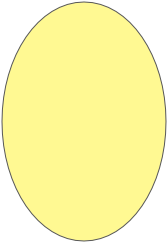
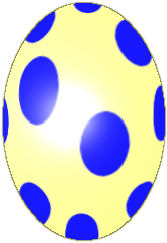
Add ovum and sperm svg images; tweak egg

diff --git a/src/code/templates/egg-game.js b/src/code/templates/egg-game.js
@@ -50,11 +50,17 @@ export default class EggGame extends Component {
       var childView;
       if (drakes[2]) {
         let child = new BioLogica.Organism(BioLogica.Species.Drake, drakes[2].alleleString, drakes[2].sex);
-        childView = <OrganismView org={ child } width={150} />;
+        childView = <OrganismView org={ child } width={170} />;
       } else if (transientStates.indexOf(transientStateTypes.HATCHING) > -1) {
         childView = <img className="egg-image" src="resources/images/egg_yellow.png" />;
       } else {
         childView = <ButtonView className="fertilize-button" label="Fertilize ❤" onClick={ handleFertilize } />;
+      }
+
+      var ovumView, spermView;
+      if ((transientStates.length === 0 && !drakes[2]) ||  transientStates.indexOf(transientStateTypes.FERTILIZING) > -1) {
+        ovumView  = <img className="ovum" src="resources/images/egg.svg" />;
+        spermView = <img className="sperm" src="resources/images/sperm.svg" />;
       }
 
       var resetButtonView = null;
@@ -74,10 +80,12 @@ export default class EggGame extends Component {
             { childView }
           </div>
           <div className={ gametesClass }>
-            <div className='half-genome-left'>
+            <div className='half-genome half-genome-left'>
+              { ovumView }
               <GenomeView chromosomes={ femaleGameteChromosomeMap } species={ mother.species } editable={false} hiddenAlleles= { hiddenAlleles } />
             </div>
-            <div className='half-genome-right'>
+            <div className='half-genome half-genome-right'>
+              { spermView }
               <GenomeView chromosomes={ maleGameteChromosomeMap }   species={ mother.species } editable={false} hiddenAlleles= { hiddenAlleles } />
             </div>
           </div>
